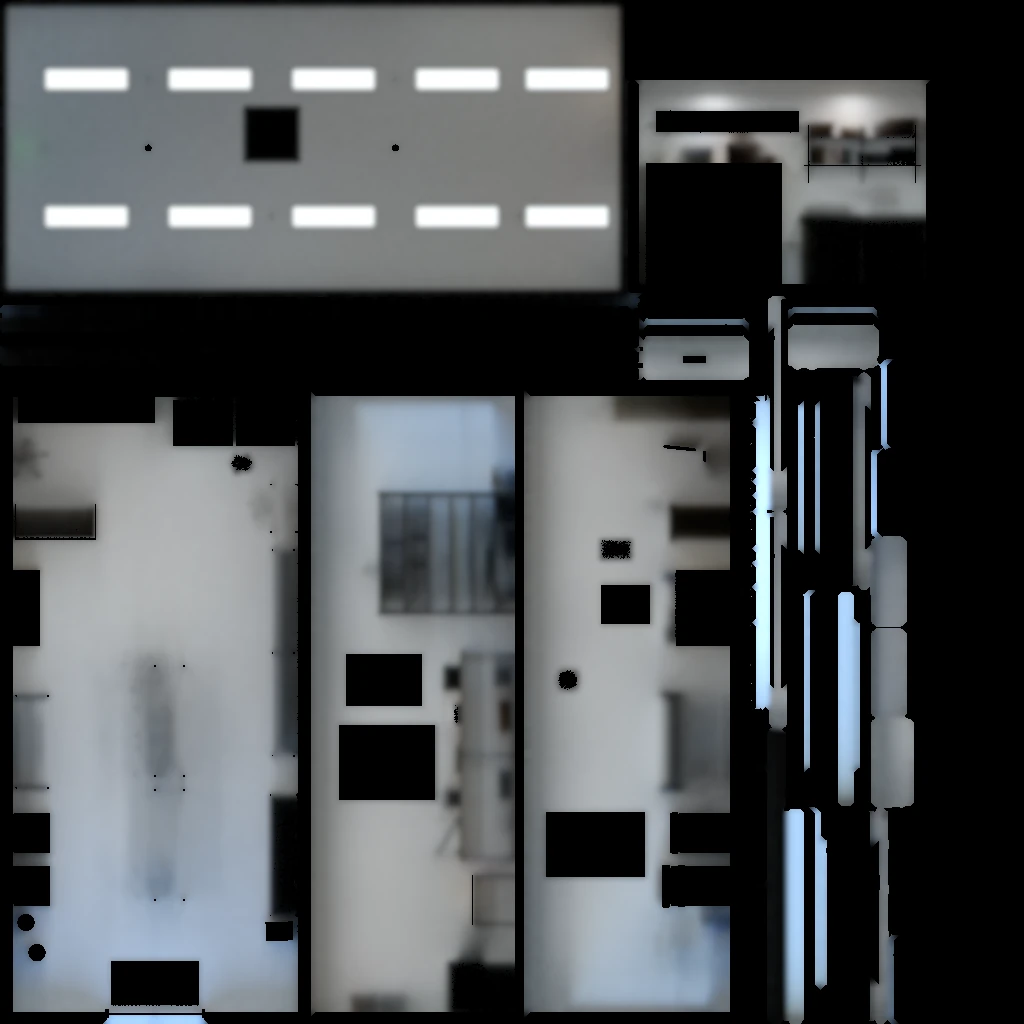
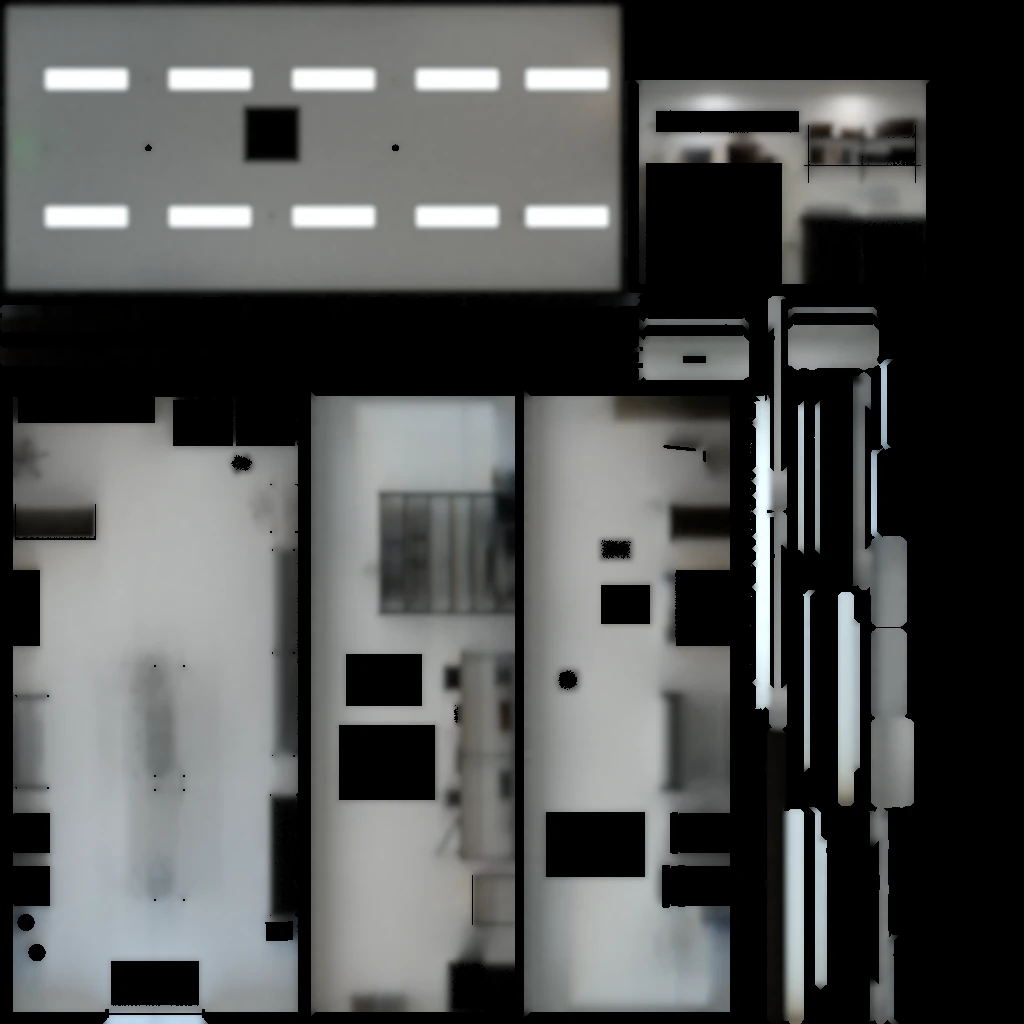
#196：阿德照 --skytint 重烘（店門口藍/紅 1.26→1.11）＋五間交件說明、白天光照改前改後圖（測試跑中）
Claude-Session: https://claude.ai/code/session_01GV1WG3UeT2DhuDpxeWJsvD

diff --git a/docs/art-rebuild/second_ai/wip/wz196_skytint_1109/README.md b/docs/art-rebuild/second_ai/wip/wz196_skytint_1109/README.md
@@ -1,0 +1,76 @@
+# #196 溫州街五間白天光照重烘：店門口不再偏藍（LAWWW2-B 2026-11-09）
+
+狀態：`READY_FOR_REVIEW`（光照已換；遊戲內畫面等 CC 拍、BB-B 判）。低優先：BB-B 11-08 00:13 判「不擋」，CPU 有空才做。
+
+## 為什麼
+- 11-08 BB-B 判一盞（WZ6_LM_cloud）：店門口的淺色木地板變灰藍，像水泥。
+  - 原因：烘焙沒有太陽，白天只吃 Nishita 晴空的藍天光；遊戲裡有光照貼圖的材質，間接光整個換成貼圖，木頭乘上偏藍的貼圖就變灰藍。
+  - 一盞已經用 `--skytint 1.32,1.0,0.72` 重烘（f164950dd）。說明：`docs/art-rebuild/second_ai/wip/wz6_yizhan_tint_1108/README.md`。
+- 溫州街其他四間（SUNNY SIDE、小路、木曜日、日常失速）和阿德還是 11-07 沒套色調的版本。這一包把它們都照同一組色調重烘。
+
+## 做法
+- 工具、參數和一盞完全一樣：`bake_gg_new.sh`，色調 `SKYTINT=1.32,1.0,0.72`。
+  - 只乘白天的天光，燈不動、晚上那張不動。
+  - 512 取樣、1024 解析度。
+  - 阿德這一組的預設色調是 7b82a4f53 加的。
+- **輸入都是沒烘過的原檔**，不是 assets 裡已經烘過的檔。每個原檔的 sha256 都和開發分支 `_lm.json` 記的 `src_sha256` 一致：
+
+| 店 | 誰做的 | 原檔 git blob | 原檔 sha256（前 16） | 烘焙時間 |
+|---|---|---|---|---|
+| SUNNY SIDE `aa_support/sunnyside.glb` | AA | `ee1aee00` | `d94d70d09acb4958` | 863 s |
+| 小路 `aa_support/komichi.glb` | AA | `d000b6ce` | `0bf1488b17908710` | 543 s |
+| 木曜日 `aa_support/mokuyobi.glb` | AA | `24e2df31` | `24f7d6406f2a496c` | 1158 s |
+| 日常失速 `aa_support/daily_offbeat.glb` | AA | `6dcba992` | `edf01702b399a919` | 1042 s |
+| 阿德 `bb_support/ade.glb` | BB | `49e0de80` | `e4d554c959a0ef12` | 1417 s |
+
+- 跑法：`OUTDIR=<out> IN=<原檔> BAKE_CACHE=<cache> bash tools/blender/env_second/lightbake/bake_gg_new.sh <aa_sunnyside|aa_komichi|aa_mokuyobi|aa_offbeat|bb_ade> 512`
+
+## 結果
+地板白天光照貼圖（WebP 編碼值，地板網格朝上的面取樣），店門口那一段（1 m）的藍／紅：
+
+| 店 | 店門口 藍／紅 改前 → 改後 | 整張平均 改前 → 改後 | 過曝（>0.99） |
+|---|---|---|---|
+| SUNNY SIDE（z 3～4） | 1.17 → **0.98** | 0.254 → 0.251 | 0.4% → 0.1% |
+| 小路（z 0～1） | 0.88 → **0.81** | 0.189 → 0.187 | 0.1% → 0.1% |
+| 木曜日（z 4～5） | 0.93 → **0.82** | 0.209 → 0.208 | 0.0% → 0.0% |
+| 日常失速（z 4～5） | 1.22 → **0.99** | 0.291 → 0.289 | 0.2% → 0.0% |
+| 阿德（z 3～4） | 1.26 → **1.11** | 0.324 → 0.323 | 1.4% → 1.2% |
+
+- 參考：一盞改後店門口 1.10。
+- 店裡面也一樣往暖的方向偏（例：日常失速 z −5～−4 是 0.81 → 0.71），亮度差 1～2%。
+- 阿德降得比較少：店裡大多是燈光（色調只乘天光），本來就接近中性。
+- 白天光照貼圖改前（左）、改後（右）：
+
+![白天光照貼圖改前、改後](lm_day_compare.jpg)
+
+## 動了什麼（和開發分支比）
+- **只重烘光照**：五個 GLB 的網格節點名字、材質、索引數、有第二套 UV 的網格都和開發分支那一版一樣（逐節點比過：30／25／29／34／42 個節點，有光照的 10／10／6／10／6 個）。
+- **晚上那張五間都逐位元組一樣**，沒有改，不在這一包。
+- GLB 大小只差烘焙紀錄（`extras.lightmap` 多 `skytint`）：+0～+244 B。
+
+| 檔案 | 開發 `e767a3e3e`（sha256 前 16） | 新 |
+|---|---|---|
+| `assets/models/env/second_ai/aa_support/sunnyside.glb` | `35a15a7123f0ec6b` | `6f43f9c9e258d388` |
+| `assets/models/env/second_ai/aa_support/sunnyside_lm_day.webp` | `55d47428b24adb27` | `94896764b7d1ec19` |
+| `assets/models/env/second_ai/aa_support/komichi.glb` | `d518ff509d744b1c` | `2640197aea55739a` |
+| `assets/models/env/second_ai/aa_support/komichi_lm_day.webp` | `5a20dc9423a59142` | `b69e5fcdb0bdcdf2` |
+| `assets/models/env/second_ai/aa_support/mokuyobi.glb` | `85d92842089d4c5e` | `3c884474019d0f42` |
+| `assets/models/env/second_ai/aa_support/mokuyobi_lm_day.webp` | `0fc05fb910d83da9` | `3a9fb2aae5388ed6` |
+| `assets/models/env/second_ai/aa_support/daily_offbeat.glb` | `aaf60340d91c02a6` | `565433809f09377c` |
+| `assets/models/env/second_ai/aa_support/daily_offbeat_lm_day.webp` | `7706ebf53f1a7ec4` | `b43a168b6778141a` |
+| `assets/models/env/second_ai/bb_support/ade.glb` | `91b26ea5b7934126` | `e2b362c9d88e3ec2` |
+| `assets/models/env/second_ai/bb_support/ade_lm_day.webp` | `6765aff86a8054e3` | `2d1a564703c0a766` |
+| `tools/blender/env_second/lightbake/sunnyside_lm.json` | `dc9a8075dc15f1c2` | `b6edc94ba5fb5e0c` |
+| `tools/blender/env_second/lightbake/komichi_lm.json` | `ba25eea8cfae03d4` | `e037fe94d33289ba` |
+| `tools/blender/env_second/lightbake/mokuyobi_lm.json` | `586796836e00309d` | `707e408e84fafbdb` |
+| `tools/blender/env_second/lightbake/daily_offbeat_lm.json` | `dbe96dff24c4c137` | `5046d2ba189bc37b` |
+| `tools/blender/env_second/lightbake/ade_lm.json` | `93d6dcfb989308e1` | `b95bb1ba52bdfcdd` |
+
+**不用改程式、不用改測試**：直接從 `claude/funny-albattani-iawshm` 複製這 15 個檔。
+
+## 測試（Node，D131；工作樹＝開發 `e767a3e3e`＋這 15 個檔）
+- 提到這五間或光照紀錄的 63 支 `*_unit.js`／`*check*.py`：結果見下面「測試結果」。
+
+## 還沒驗
+1. **遊戲內**（請 CC 拍、BB-B 判）：五間 14:00 的店門口（door）、店裡（clerk 或 corner）。21:00 不用拍（晚上那張沒變）。
+2. GPU 顏色、手機（PC）。
